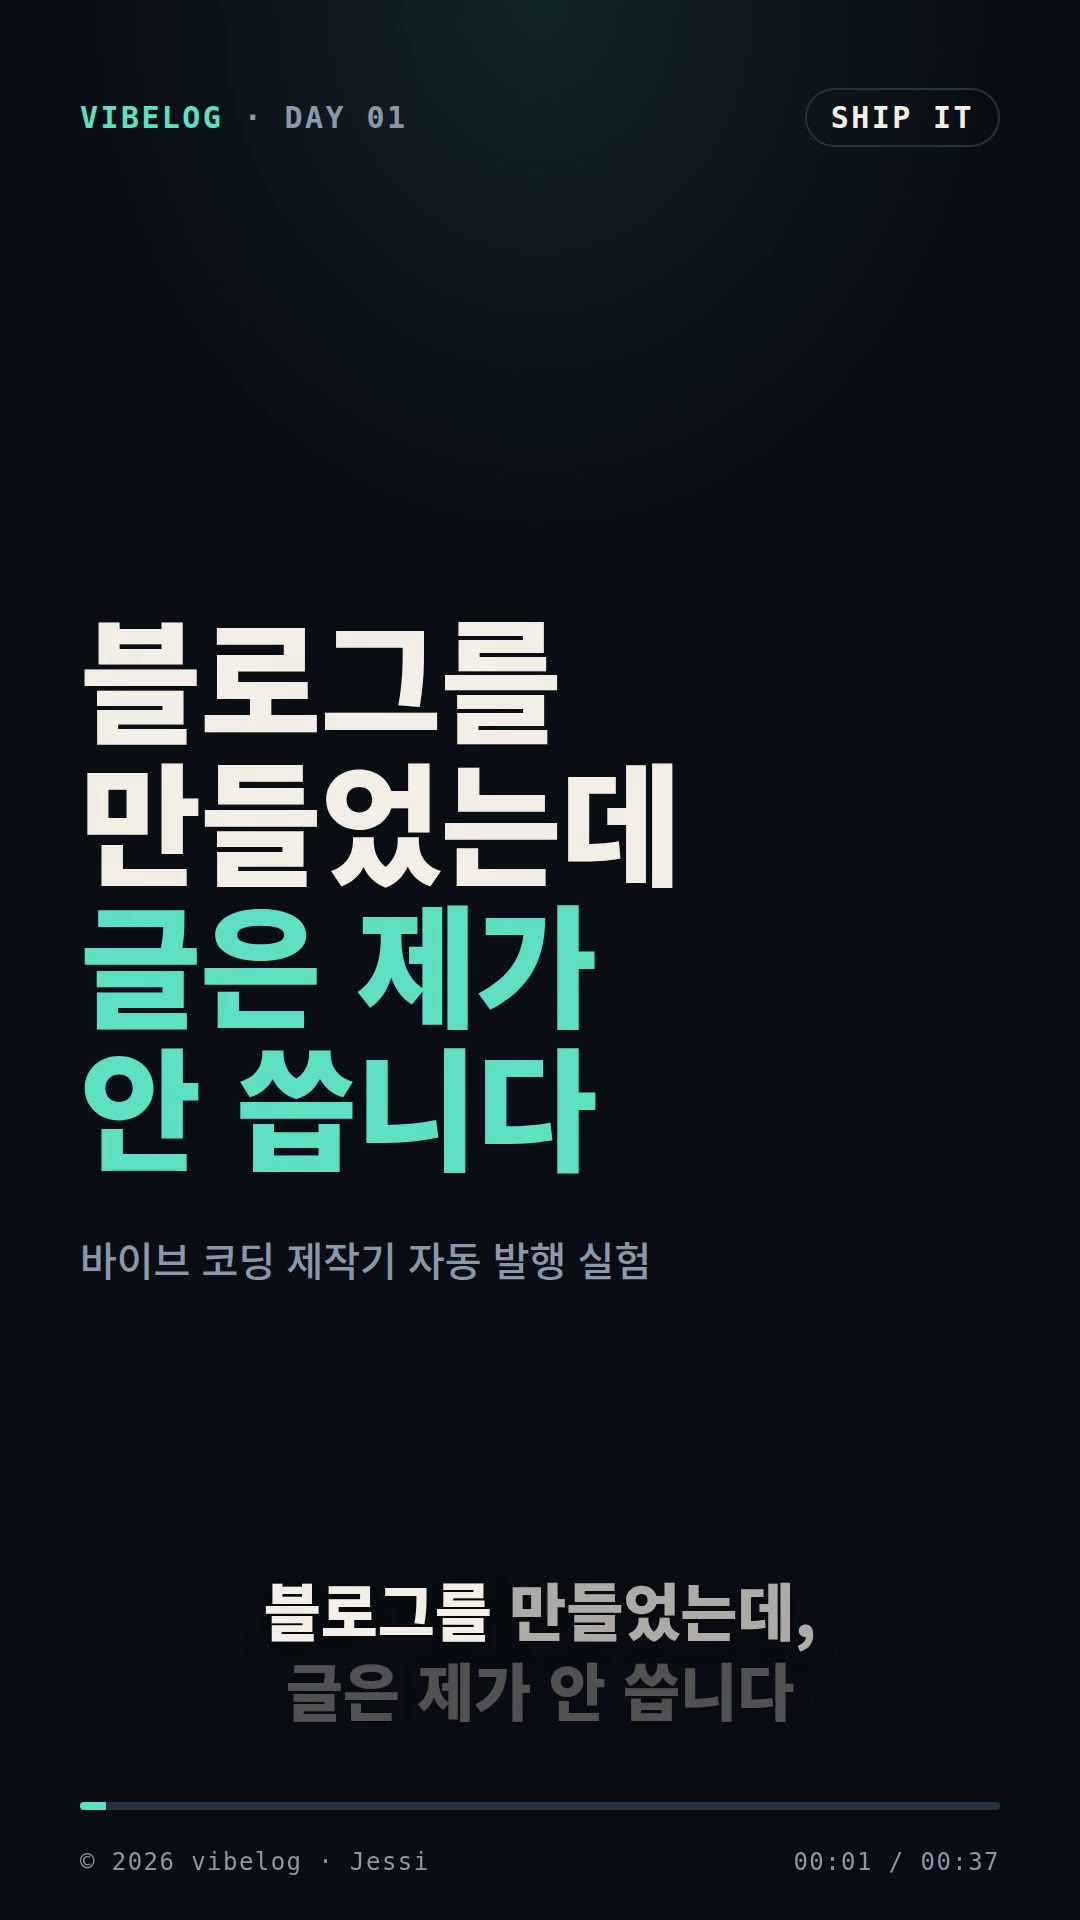
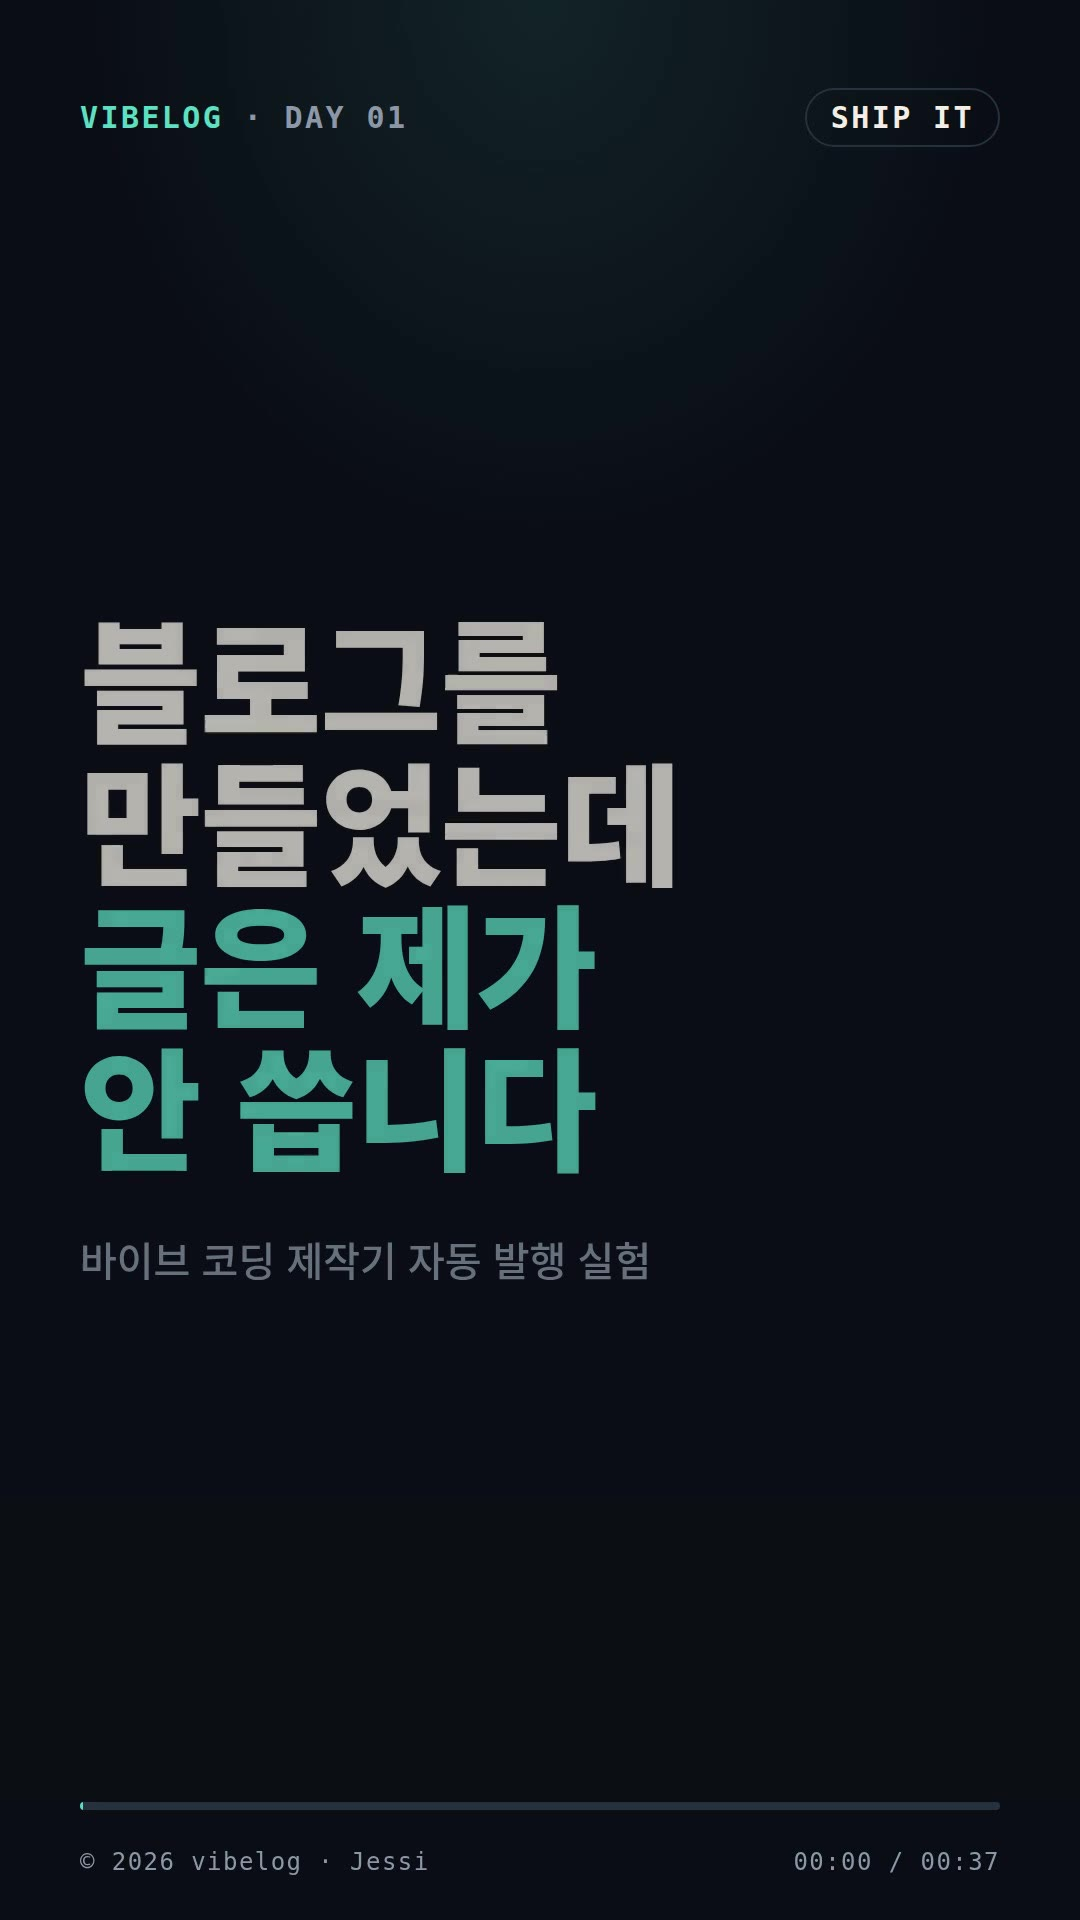
fix: 영상 자막 안전 구역·순차 전환 + 비유 절제 규칙 + 인트로 썸네일
왜: Jessi 피드백 3+1건.
- 자막이 폰 데모 화면을 가렸다 → 자막 62→52px, 폰 프레임을 줄여
  (하단 1370) 자막 구역(1530~)과 완전 분리. 정지 프레임 검증 완료
- 장면 전환 크로스페이드에서 레이아웃이 다른 장면끼리 애매하게 겹쳤다
  → 나가는 장면이 경계 전에 다 사라지는 순차 페이드로
- "가게·명함" 비유가 오히려 어려웠다 → 9/10 글을 직설로 고치고,
  프롬프트에 규칙 추가: 비유는 한 문장짜리 하나만, 소품이 늘어나면
  버리고 직설로. 걷어내도 이해돼야 한다
- 인트로 썸네일: 이 샘플 영상엔 자막 없는 프레임이 없어, 첫 프레임의
  자막 구역을 배경색으로 덮은 버전으로 교체

Claude-Session: https://claude.ai/code/session_01WuW6xZfcXoUaVcGfDkFzy2

diff --git a/scripts/script.ts b/scripts/script.ts
@@ -26,7 +26,8 @@ const SYSTEM = `당신은 "vibelog" 쇼츠(30~45초 세로 영상)의 대본 작
 것 하나(제일 큰 삽질, 또는 제일 신기한 변화)만 골라 그 이야기만 한다.
 나머지는 과감히 버린다 — 어차피 블로그 글에 다 있다.
 이야기 구조: "이런 게 되면 좋겠는데(문제) → 이렇게 됐다(해결) → 직접 보세요(데모)".
-중학생이 들어도 따라올 수 있는 말로.
+중학생이 들어도 따라올 수 있는 말로. 비유는 한 문장으로 끝나는 것 하나만 —
+여러 문장에 걸쳐 소품이 늘어나는 비유(가게→명함처럼)는 금지, 직설이 낫다.
 
 구조 (scene 순서): hook(1~2문장, 3~4초짜리 강한 첫 마디) → build(뭘 만들었나)
 → demo(화면을 보여주며 하는 말) → fail(삽질 이야기) → next(다음 할 것) → end(마무리 한 마디).

diff --git a/video/src/Scenes.tsx b/video/src/Scenes.tsx
@@ -97,13 +97,14 @@ export const PhoneFrame: React.FC<{
   return (
     <div
       style={{
+        // 자막 구역(하단 ~1530부터)과 안 겹치게 프레임을 줄였다 — 폰 하단 1370
         position: "absolute",
         left: "50%",
-        top: 260,
+        top: 240,
         transform: "translateX(-50%)",
-        width: 760,
-        height: 1250,
-        borderRadius: 70,
+        width: 690,
+        height: 1130,
+        borderRadius: 64,
         background: "#000",
         border: "6px solid #2A3442",
         boxShadow: "0 40px 120px rgba(0,0,0,.6), 0 0 0 2px #0A0E14",
@@ -114,7 +115,7 @@ export const PhoneFrame: React.FC<{
         style={{
           position: "absolute",
           inset: 14,
-          borderRadius: 56,
+          borderRadius: 50,
           overflow: "hidden",
           background: COLORS.panel,
         }}

diff --git a/video/src/ShipIt.tsx b/video/src/ShipIt.tsx
@@ -109,6 +109,9 @@ export const ShipIt: React.FC<ShipItProps> = ({
   const total = totalSeconds(timing.duration);
   const segs = buildSegments(script, timing, total, Boolean(artFiles?.next));
 
+  // 순차 페이드 — 나가는 장면은 경계 전에 다 사라지고, 들어오는 장면은
+  // 경계부터 뜬다. 크로스페이드는 레이아웃이 다른 장면끼리 애매하게
+  // 겹쳐 보였다 (Jessi 지적).
   const opacityOf = (seg: Seg): number => {
     const fadeIn =
       seg.from === 0
@@ -120,7 +123,7 @@ export const ShipIt: React.FC<ShipItProps> = ({
     const fadeOut =
       seg.to >= total
         ? 1
-        : interpolate(t, [seg.to, seg.to + SCENE_FADE], [1, 0], {
+        : interpolate(t, [seg.to - SCENE_FADE, seg.to], [1, 0], {
             extrapolateLeft: "clamp",
             extrapolateRight: "clamp",
           });

diff --git a/video/src/Captions.tsx b/video/src/Captions.tsx
@@ -59,13 +59,15 @@ export const Captions: React.FC<{
   const keywords = new Set(lang === "ko" ? line.keywords : line.keywordsEn);
 
   return (
+    // 자막 안전 구역: 폰 프레임 하단(1390) 아래에서만 논다 — 데모 화면을
+    // 가리지 않게 크기도 62→52로 (Jessi 지적)
     <div
       style={{
         position: "absolute",
         left: 70,
         right: 70,
         bottom: 190,
-        minHeight: 200,
+        minHeight: 160,
         display: "flex",
         alignItems: "flex-end",
         justifyContent: "center",
@@ -75,7 +77,7 @@ export const Captions: React.FC<{
       <div
         style={{
           fontFamily: FONT_SANS,
-          fontSize: 62,
+          fontSize: 52,
           fontWeight: 900,
           lineHeight: 1.3,
           wordBreak: "keep-all",
